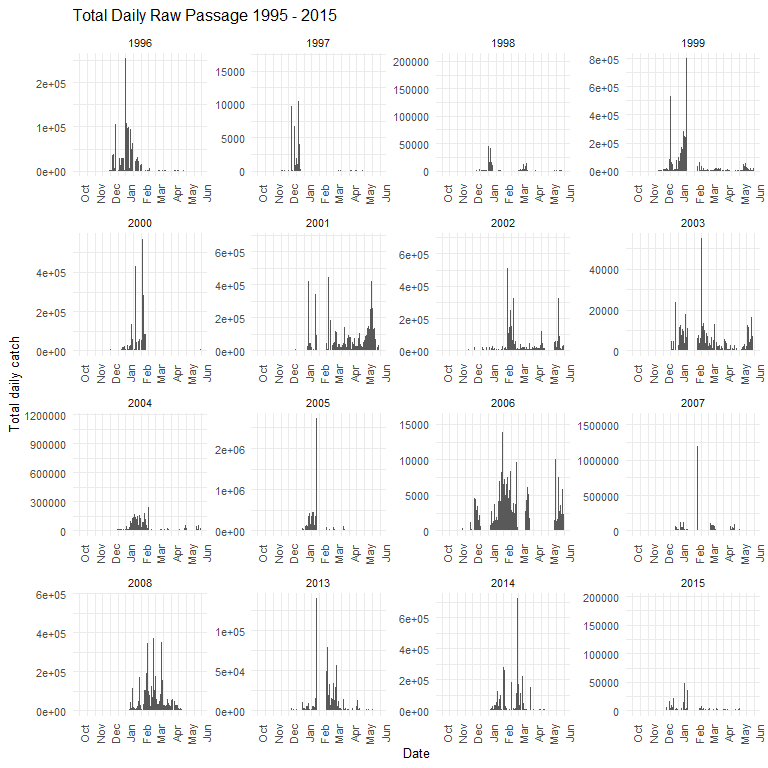
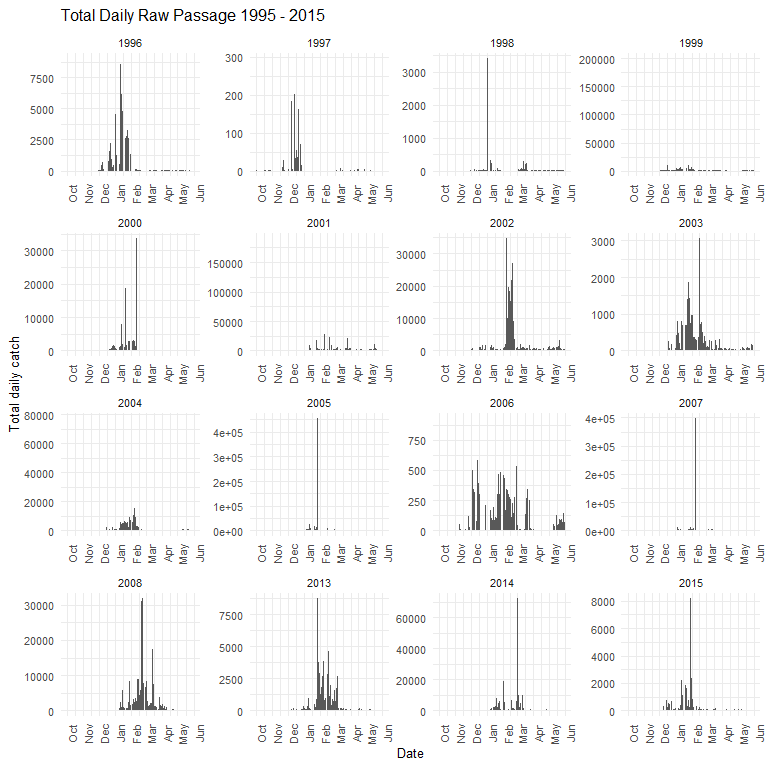
Adds data dictionary and next steps to butte rst

diff --git a/scripts/rst/butte-creek/butte-creek-rst-qc-checklist.md b/scripts/rst/butte-creek/butte-creek-rst-qc-checklist.md
@@ -1,4 +1,4 @@
-butte-creek-rst-qc-checklist
+Butte Creek RST QC
 ================
 Inigo Peng
 10/19/2021
@@ -41,7 +41,7 @@ gcs_list_objects()
 gcs_get_object(object_name = "rst/butte-creek/data-raw/CDFW_Butte_Creek_RST_Captures.xlsx",
                bucket = gcs_get_global_bucket(),
                saveToDisk = "butte_creek_rst_raw.xlsx",
-               Overwrite = TRUE)
+               overwrite = TRUE)
 ```
 
 ``` r
@@ -134,6 +134,74 @@ cleaner_data <- raw_data %>%
     ## $ rpms_start       <dbl> NA, NA, NA, NA, NA, NA, NA, NA, NA, NA, NA, NA, NA, N~
     ## $ rpms_end         <dbl> NA, NA, NA, NA, NA, NA, NA, NA, NA, NA, NA, NA, NA, N~
     ## $ comments         <chr> NA, NA, NA, NA, NA, NA, NA, NA, NA, NA, NA, NA, NA, N~
+
+## Data Dictionary
+
+The following table describes the variables included in this dataset and
+the percent that do not include data.
+
+``` r
+percent_na <- cleaner_data %>%
+  summarise_all(list(name = ~sum(is.na(.))/length(.))) %>%
+  pivot_longer(cols = everything())
+  
+data_dictionary <- tibble(variables = colnames(cleaner_data),
+                          description = c("Date of sampling",
+                                          "RST Station, BCOKIE-1, BCADAMS, BCOKIE-2",
+                                          "Status of RST (Check - trap was checked normally continued fishing, Pull - trap was pulled after trap check, Set - trap was set upon arrival",
+                                          "TRUE if fish is dead in RST",
+                                          "Fish Count",
+                                          "Measure of fork length of fish in mm",
+                                          "Weight of fish in grams",
+                                          "?TODO, adipose or none",
+                                          "Lifestage, originally coded but we replaced code with lifestge name (1 - Fry with visible yolk sac, 2 - Fry with no visible yolk sac, 3 - Parr, 4 - Fingerling, 5 - Smolt, AD - Adult, n/p - not provided , UNK - unknown)",
+                                          "Time trap sampled",
+                                          "Unique ID for each trap",
+                                          "Weather, originally coded but we replaced code with weather type (CLD – Cloudy, CLR – Clear, FOG – Foggy, RAN – Rainy)",
+                                          "Water Temperature in C",
+                                          "Water turbidity in NTU",
+                                          "Secchi Depth, originally recorded in feet and standardized to meter",
+                                          "Velocity measured in feet/second",
+                                          "FALSE if north screen not working (not clearning debris)",
+                                          "FALSE if south screen not working (not clearning debris)",
+                                          "Number of revolutions the RST cone had made since last being checked",
+                                          "Visual assesment of debris in trap (very heavy, heavy, light, medium, none)",
+                                          "Rotations per minute of RST cone at start of trapping window",
+                                          "Rotations per minute of RST cone at end of trapping window",
+                                          "Comment from survey crew"
+                                          ),
+                          
+                          percent_na = round(percent_na$value*100)
+                          
+)
+knitr::kable(data_dictionary)
+```
+
+| variables         | description                                                                                                                                                                                                                | percent\_na |
+|:------------------|:---------------------------------------------------------------------------------------------------------------------------------------------------------------------------------------------------------------------------|------------:|
+| date              | Date of sampling                                                                                                                                                                                                           |           0 |
+| station           | RST Station, BCOKIE-1, BCADAMS, BCOKIE-2                                                                                                                                                                                   |           0 |
+| trap\_status      | Status of RST (Check - trap was checked normally continued fishing, Pull - trap was pulled after trap check, Set - trap was set upon arrival                                                                               |           0 |
+| dead              | TRUE if fish is dead in RST                                                                                                                                                                                                |           0 |
+| count             | Fish Count                                                                                                                                                                                                                 |           0 |
+| fork\_length      | Measure of fork length of fish in mm                                                                                                                                                                                       |           5 |
+| weight            | Weight of fish in grams                                                                                                                                                                                                    |          40 |
+| mark\_code        | ?TODO, adipose or none                                                                                                                                                                                                     |           0 |
+| lifestage         | Lifestage, originally coded but we replaced code with lifestge name (1 - Fry with visible yolk sac, 2 - Fry with no visible yolk sac, 3 - Parr, 4 - Fingerling, 5 - Smolt, AD - Adult, n/p - not provided , UNK - unknown) |           0 |
+| time              | Time trap sampled                                                                                                                                                                                                          |           0 |
+| gear\_id          | Unique ID for each trap                                                                                                                                                                                                    |           8 |
+| weather           | Weather, originally coded but we replaced code with weather type (CLD – Cloudy, CLR – Clear, FOG – Foggy, RAN – Rainy)                                                                                                     |           4 |
+| temperature       | Water Temperature in C                                                                                                                                                                                                     |           6 |
+| turbidity         | Water turbidity in NTU                                                                                                                                                                                                     |          33 |
+| secchi            | Secchi Depth, originally recorded in feet and standardized to meter                                                                                                                                                        |          98 |
+| velocity          | Velocity measured in feet/second                                                                                                                                                                                           |          61 |
+| north\_brush      | FALSE if north screen not working (not clearning debris)                                                                                                                                                                   |           0 |
+| south\_brush      | FALSE if south screen not working (not clearning debris)                                                                                                                                                                   |           0 |
+| trap\_revolutions | Number of revolutions the RST cone had made since last being checked                                                                                                                                                       |          65 |
+| debris            | Visual assesment of debris in trap (very heavy, heavy, light, medium, none)                                                                                                                                                |           1 |
+| rpms\_start       | Rotations per minute of RST cone at start of trapping window                                                                                                                                                               |          55 |
+| rpms\_end         | Rotations per minute of RST cone at end of trapping window                                                                                                                                                                 |          59 |
+| comments          | Comment from survey crew                                                                                                                                                                                                   |          91 |
 
 ## Explore `date`
 
@@ -262,7 +330,7 @@ table(cleaner_data$mark_code)
 
 **NA and Unknown Values**
 
--   0 % of values in the `markcode` column are NA.
+-   76.2 % of values in the `markcode` column are NA.
 
 ### Variable `lifestage`
 
@@ -445,13 +513,12 @@ cleaner_data %>% select_if(is.numeric) %>% colnames()
 
 ``` r
 cleaner_data %>% 
+  group_by(date) %>% 
+  summarise(total_daily_catch = sum(count)) %>% 
   mutate(water_year = ifelse(month(date) %in% 10:12, year(date) + 1, year(date))) %>% 
   mutate(year = as.factor(year(date)),
          fake_year = if_else(month(date) %in% 10:12, 1900, 1901),
          fake_date = as.Date(paste0(fake_year,"-", month(date), "-", day(date)))) %>%
-  group_by(date) %>% 
-  mutate(total_daily_catch = sum(count)) %>% 
-  ungroup() %>% 
   ggplot(aes(x = fake_date, y = total_daily_catch)) +
   geom_col()+
   # scale_x_date(labels = date_format("%b"), limits = c(as.Date("1995-10-01"), as.Date("2016-06-01")), date_breaks = "1 month")+
@@ -656,8 +723,7 @@ cleaner_data %>%
 cleaner_data %>% 
   filter(temperature < 100) %>%  #filter out 36 points with water temperature > 100 degrees (entry error?)
   group_by(date) %>% 
-  mutate(daily_avg_temp = mean(temperature)) %>% 
-  ungroup() %>% 
+  summarise(daily_avg_temp = mean(temperature)) %>% 
   mutate(year = as.factor(year(date)),
          fake_year = if_else(month(date) %in% 10:12, 1900,1901),
          fake_date = as.Date(paste0(fake_year, "-", month(date), "-", day(date)))) %>% 
@@ -711,8 +777,7 @@ Note: max 805 is very high. Likely an error.
 ``` r
 cleaner_data %>% 
   group_by(date) %>% 
-  mutate(daily_avg_turb = mean(turbidity)) %>% 
-  ungroup() %>% 
+  summarise(daily_avg_turb = mean(turbidity)) %>% 
   mutate(year = as.factor(year(date)),
          fake_year = if_else(month(date) %in% 10:12, 1900,1901),
          fake_date = as.Date(paste0(fake_year, "-", month(date), "-", day(date)))) %>% 
@@ -786,8 +851,7 @@ cleaner_data %>%
 cleaner_data %>% 
   filter(velocity < 5) %>% #filtered out one point to show a more clear graph
   group_by(date) %>% 
-  mutate(daily_avg_velocity = mean(velocity)) %>% 
-  ungroup() %>% 
+  summarise(daily_avg_velocity = mean(velocity)) %>% 
   mutate(year = as.factor(year(date)),
          fake_year = if_else(month(date) %in% 10:12, 1900,1901),
          fake_date = as.Date(paste0(fake_year, "-", month(date), "-", day(date)))) %>% 
@@ -959,7 +1023,7 @@ summary(cleaner_data$rpms_end)
 
 ### Variable `secchi`
 
-**Description:** Secchi depth in feet
+**Description:** Secchi depth in feet, convert to meters below
 
 ``` r
 cleaner_data %>% 
@@ -988,11 +1052,26 @@ summary(cleaner_data$secchi)
 
 **Issues Identified**
 
--   50 points in water temperature reaches over 50 degrees celsius
+-   50 points in water temperature reaches over 50 degrees celsius (TODO
+    investigate and potentially convert)
 
 -   Turbidity data lacks in some years
 
--   Fish count number is extremely high (up to 220,000 fish in one day)?
+-   Secchi Depth in Feet, convert to Meters below
+
+``` r
+cleaner_data <- cleaner_data %>%
+  mutate(secchi = secchi / 3.281)
+```
+
+## Next steps
+
+-   Come up with a plan for generating passage estimates.
+
+### Columns to remove
+
+-   Might be able to remove some columns describing environmental
+    variables.
 
 ### Add cleaned data back into google cloud
 
